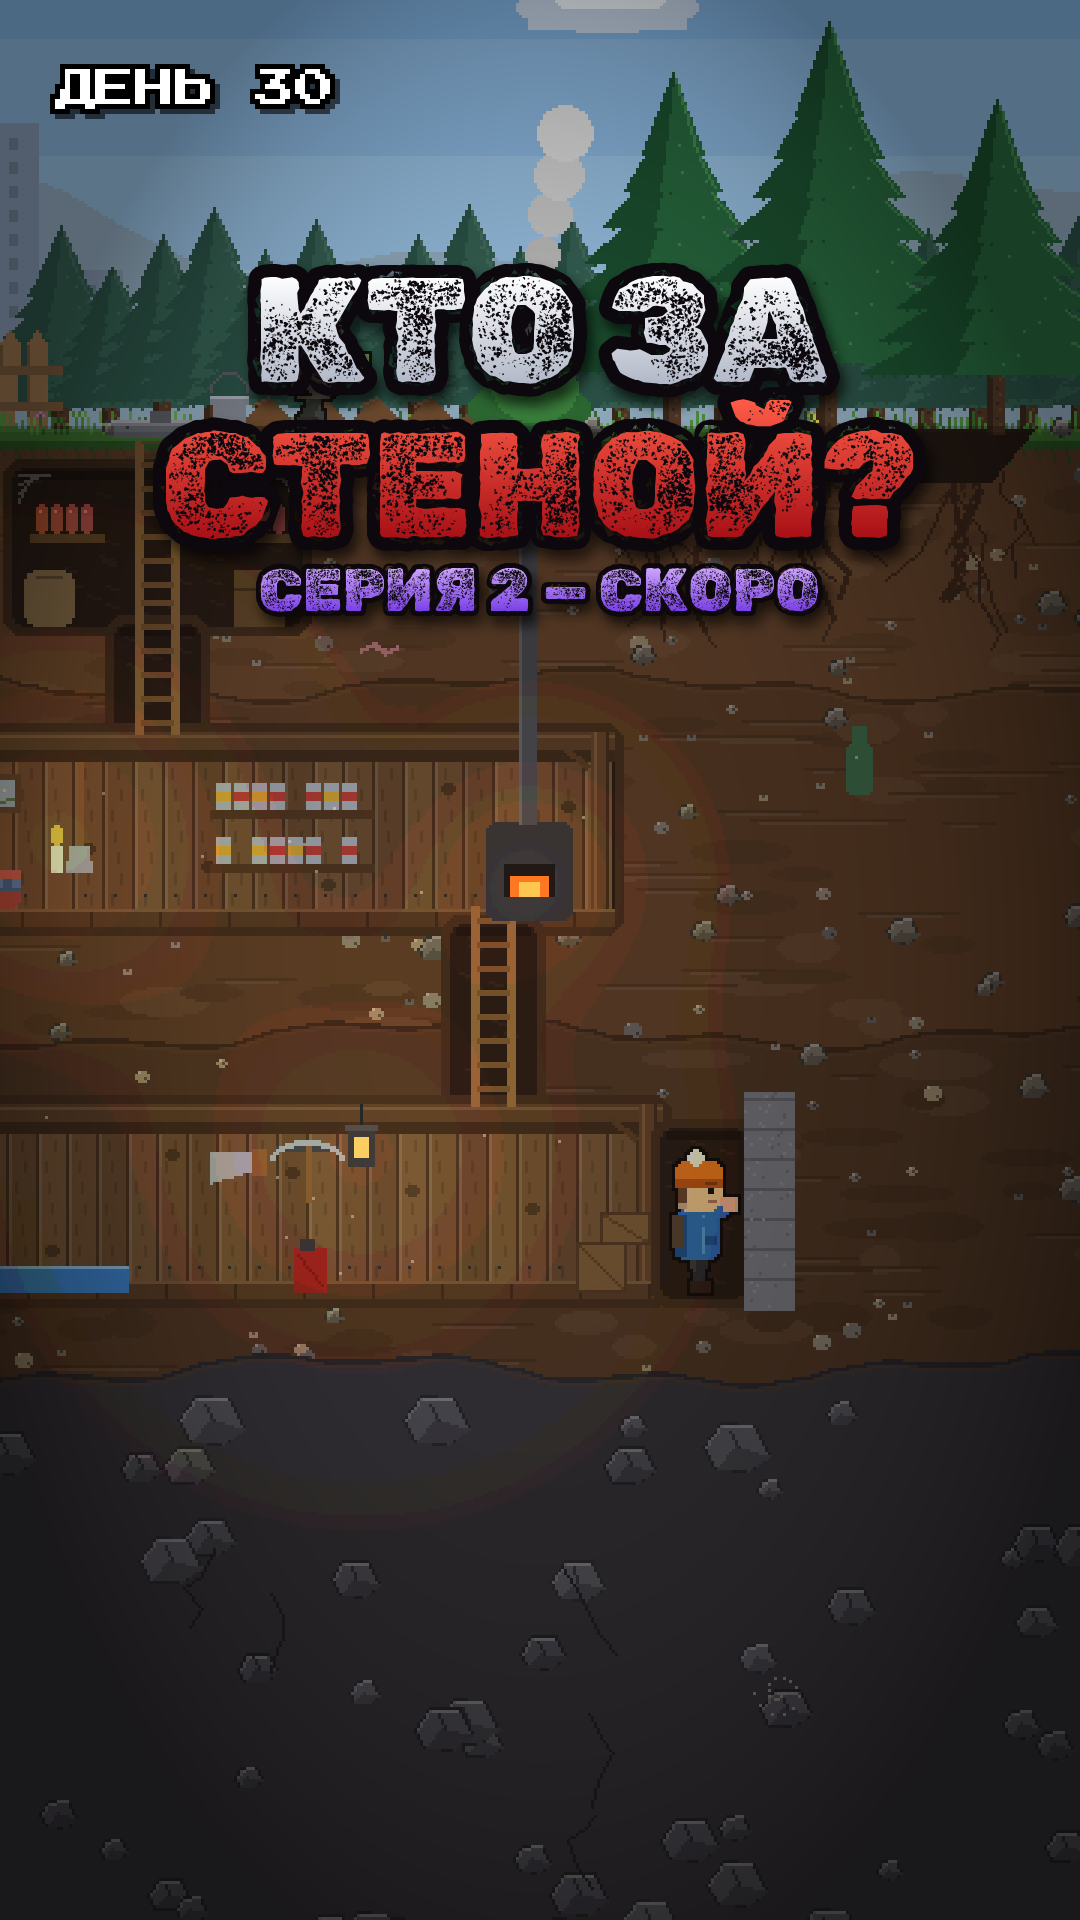
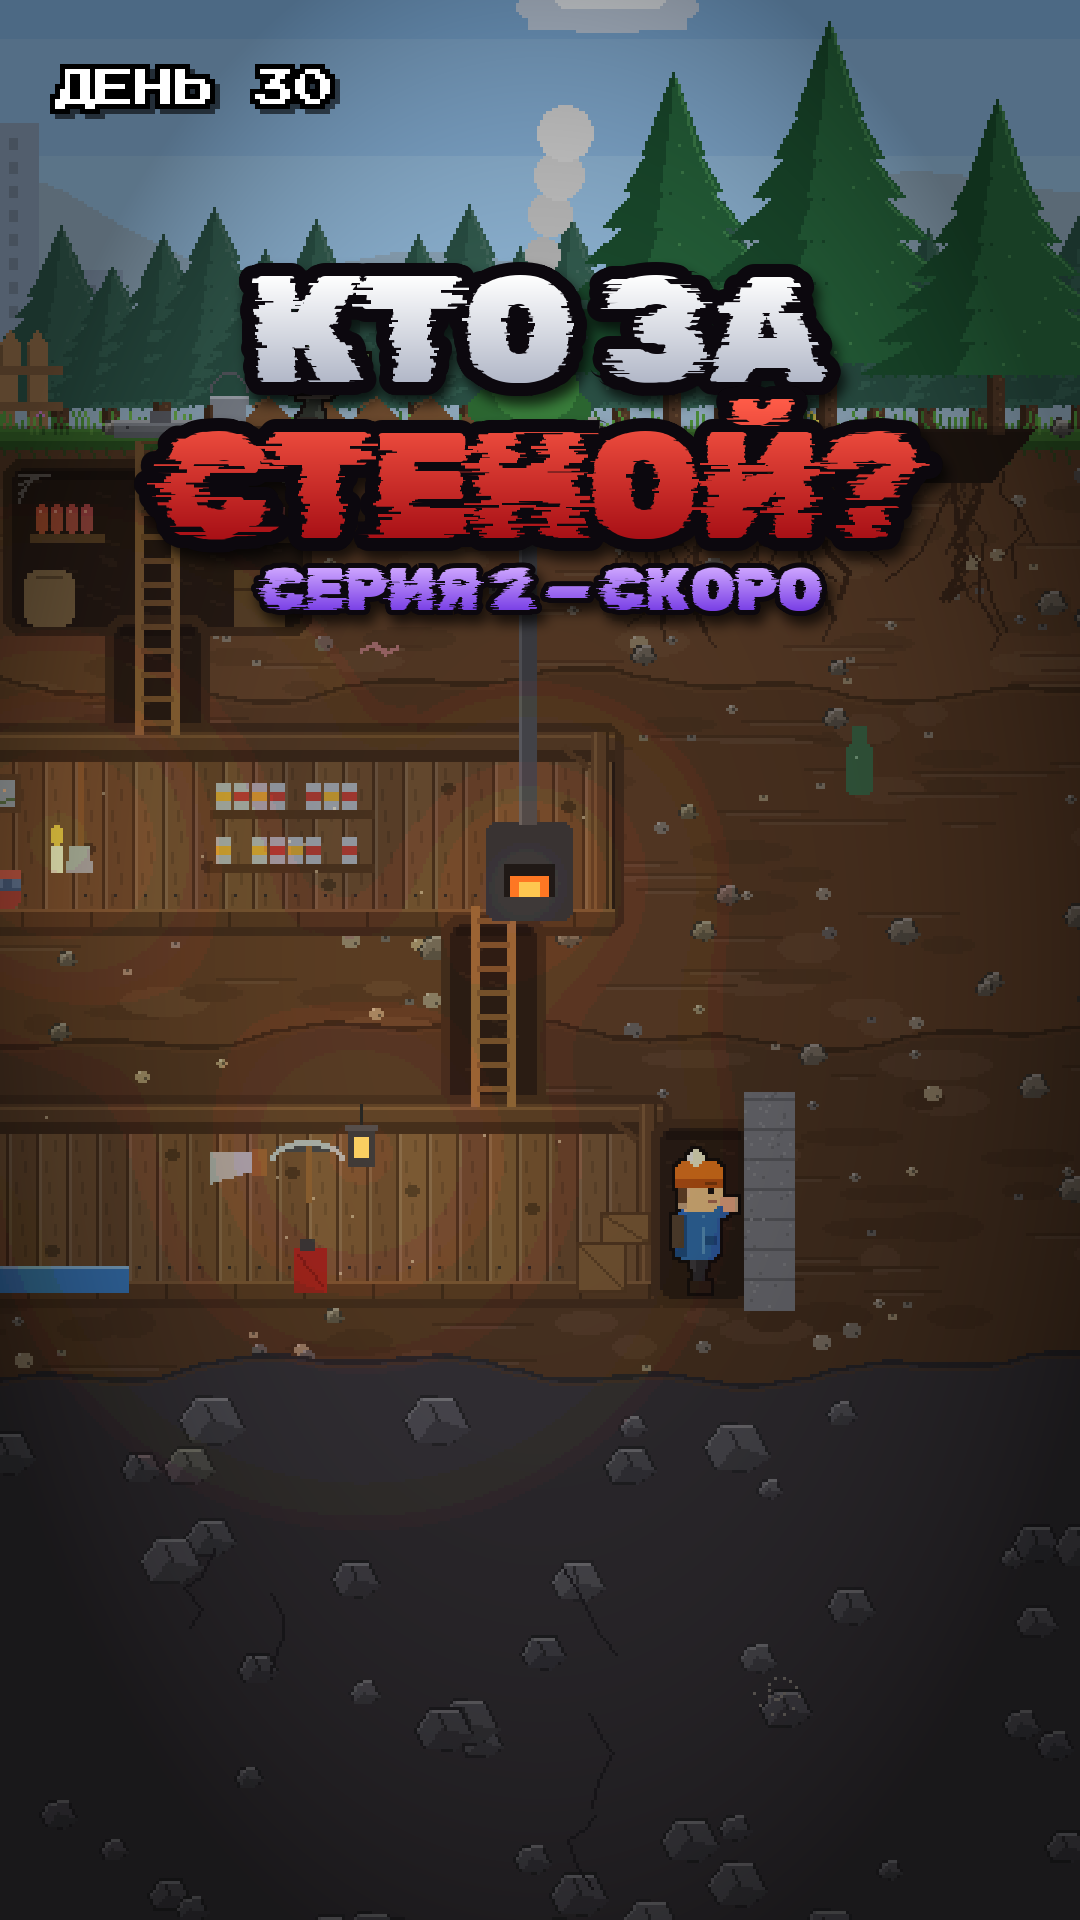
Zombi: title, ending and cover in Rubik Glitch (owner's final choice)
Claude-Session: https://claude.ai/code/session_012AJnV3FoB4MYQ4cLJ3yctW

Changed region(s): [[0.1222, 0.125, 0.8556, 0.3438]]

diff --git a/tiktok/zombi/bunker/ep1.py b/tiktok/zombi/bunker/ep1.py
@@ -15,9 +15,9 @@ SCENES = [
     (12, "ДЕНЬ 30", "Так стучат только живые. Но за целый месяц ты не слышал оттуда ни звука. **Кто сидел за стеной всё это время?**", 14),
 ]
 OFF = ("bike", "lamp", "tunnel")        # этого в мире ещё нет
-TITLE = [("100 ДНЕЙ", "white", 315, "dirt140"), ("В БУНКЕРЕ", "red", 450, "dirt140"), ("СЕРИЯ 1", "purple", 570, "dirt66")]
-END = [("КТО ЗА", "white", 330, "dirt150"), ("СТЕНОЙ?", "red", 470, "dirt150")]   # (текст, цвет, y, шрифт+размер)
-NEXT_FONT = "dirt60"
+TITLE = [("100 ДНЕЙ", "white", 315, "glitch140"), ("В БУНКЕРЕ", "red", 450, "glitch140"), ("СЕРИЯ 1", "purple", 570, "glitch66")]
+END = [("КТО ЗА", "white", 330, "glitch150"), ("СТЕНОЙ?", "red", 470, "glitch150")]   # (текст, цвет, y, шрифт+размер)
+NEXT_FONT = "glitch60"
 NEXT = "СЕРИЯ 2 — СКОРО"
 NAMES = {}
 VOICE = "ep1_voice"

diff --git a/tiktok/zombi/bunker/build.py b/tiktok/zombi/bunker/build.py
@@ -251,7 +251,8 @@ def _dil(a):
     return o
 
 
-SMOOTH = {"dirt": os.path.join(HERE, "fonts", "RubikDirt-Regular.ttf")}   # обычные (не пиксельные) шрифты заставки
+SMOOTH = {"dirt": os.path.join(HERE, "fonts", "RubikDirt-Regular.ttf"),
+          "glitch": os.path.join(HERE, "fonts", "RubikGlitch-Regular.ttf")}   # обычные (не пиксельные) шрифты заставки
 SMOOTH_COLS = {"white": ((255, 255, 255), (178, 184, 200)), "red": ((255, 92, 72), (168, 16, 22)),
                "purple": ((206, 166, 255), (122, 64, 230))}
 

diff --git a/tiktok/zombi/ZOMBI.md b/tiktok/zombi/ZOMBI.md
@@ -45,11 +45,12 @@ ElevenLabs Music (`POST /v1/music`, model `music_v1`, `music_length_ms`): 90 с 
 не больше 2 запросов одновременно. Варианты в `music/` (1 тёплый, 2 тёмный, 3 шкатулка; `*_s_golosom.mp3` —
 первые 35 с серии с голосом). **Владелец выбрал №1 «тёплый» (`ambient_1_teplyy.mp3`)**. В сборку: `build.py --music ../music/<файл>.mp3` (под голосом тише, в паузах громче).
 ### Шрифт заставки (выбран окончательно)
-Заставка, концовка и обложка — **Rubik Dirt (обычный, не пиксельный шрифт, «в грязи»)**, вариант №10 из
+Заставка, концовка и обложка — **Rubik Glitch (обычный, не пиксельный шрифт, «сбой экрана»)**, вариант №12 из
 `test_frames/shrifty_obychnye.jpg`: плавный градиент сверху вниз (белый / красный / фиолетовый), толстый тёмный
-контур, мягкая тень (`smooth_logo()` в build.py). В `epN.py`: "dirt140" — главные строки, "dirt66" — «СЕРИЯ N»,
-`NEXT_FONT = "dirt60"`. Субтитры и счётчик дней остаются пиксельными (Press Start 2P), как в «Сюжете фильма».
-История выбора: пиксельные варианты (`shrifty_pixel*.jpg`) владелец посмотрел и выбрал обычный шрифт.
+контур, мягкая тень (`smooth_logo()` в build.py). В `epN.py`: "glitch140" — главные строки, "glitch66" — «СЕРИЯ N»,
+`NEXT_FONT = "glitch60"`. Субтитры и счётчик дней остаются пиксельными (Press Start 2P), как в «Сюжете фильма».
+История выбора: пиксельные варианты (`shrifty_pixel*.jpg`) владелец посмотрел и выбрал обычный шрифт;
+сначала №10 Rubik Dirt, затем окончательно №12 Rubik Glitch.
 
 ### Обложка серии
 `python3 cover.py N` → `covers/epN_cover.png` (1080×1920) + `covers/epN_tile.png` (как плитка в профиле).
